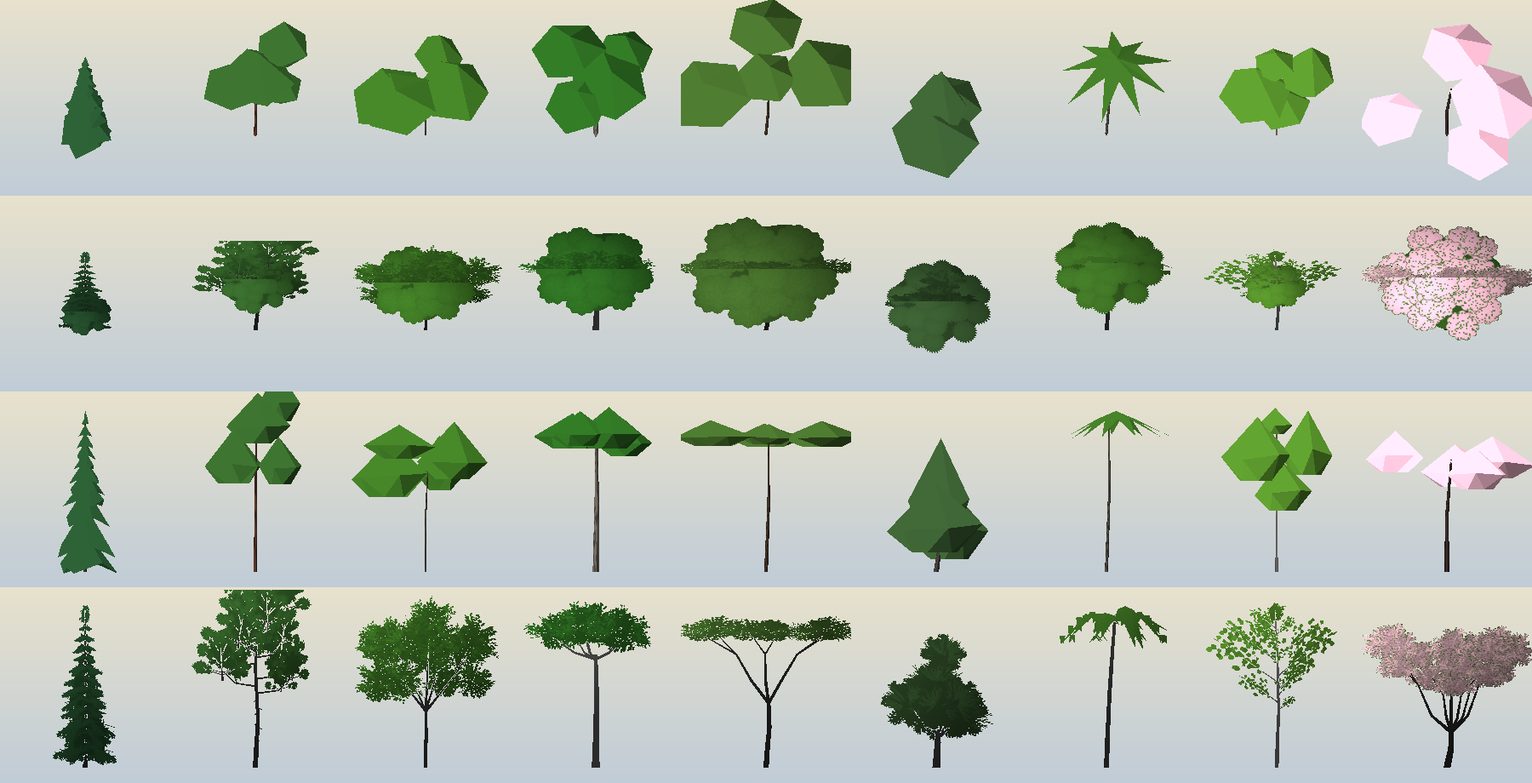
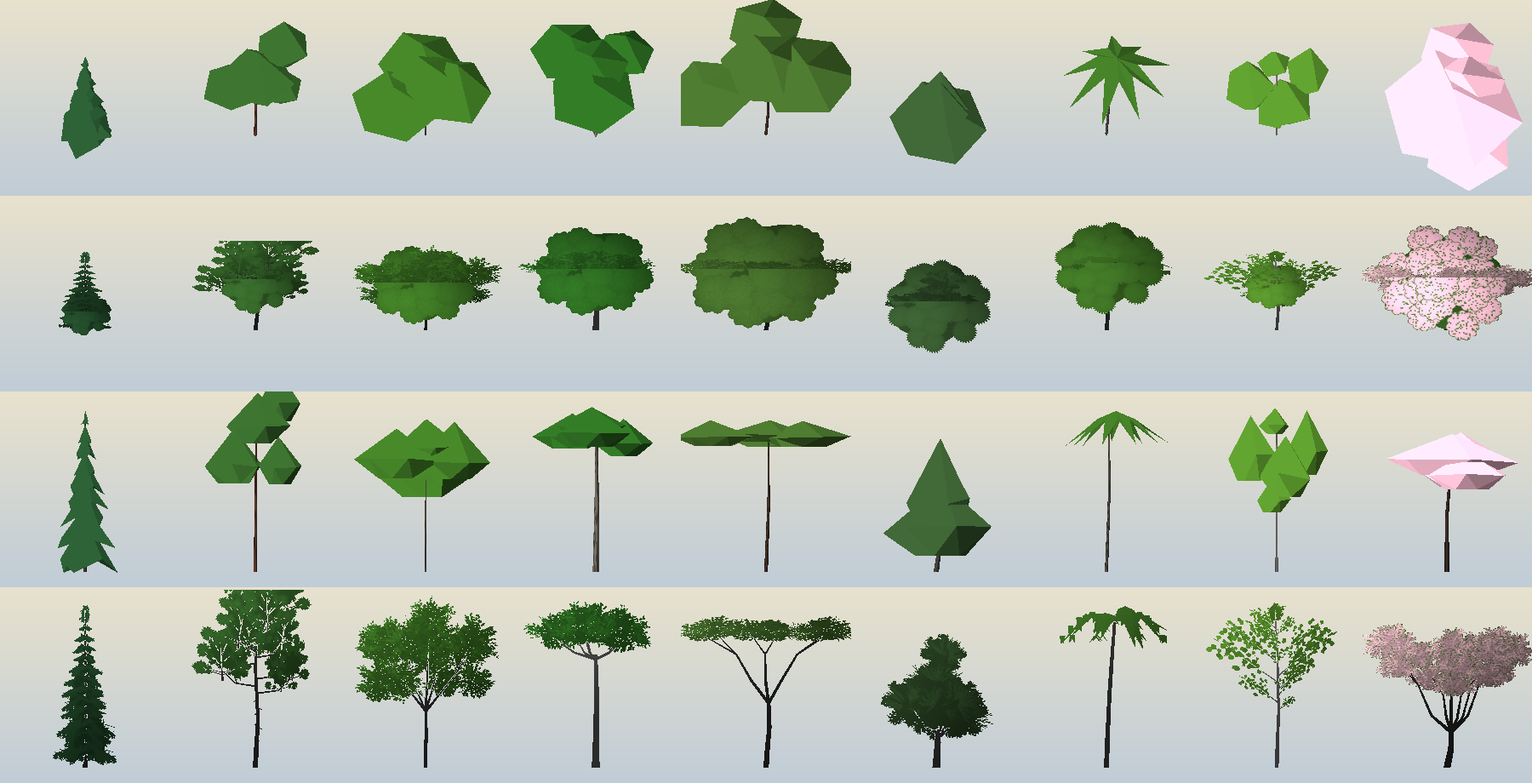
Trees looked down on are their solid make (60 to 240 m): grown in by the angle from the eye's place, the pictures drawing in
Claude-Session: https://claude.ai/code/session_01R5Bri3Vc6gREhGM2yuwUwB

diff --git a/src/life/trees.js b/src/life/trees.js
@@ -16,7 +16,7 @@ import { localFrame } from '../core/ephemeris.js';
 import { makeTreeGeometries, VARIANTS, sharedCorners } from './treeGeometry.js';
 import { ATLAS_W, ATLAS_H } from './treeAtlasLayout.js';
 import { SNOW_GLSL, SNOW_UNIFORMS } from '../render/snowGlsl.js';
-import { EDGE0, EDGE1, TOP0, TOP1 } from './farTreeForm.js';
+import { EDGE0, EDGE1, TOP0, TOP1, SOLID0, SOLID1 } from './farTreeForm.js';
 import { SPECIES, bloomOf, treeLook, canopyYear, canopyFar } from './cover.js';
 import { treeSeason } from './season.js';
 
@@ -139,8 +139,9 @@ uniform vec4 uTreeWind;      // xyz: where the wind blows to (unit), w: its spee
 uniform float uGustPhase;    // the gust's phase at the anchor (Trees.update): a tree's gust is its place's, whatever the anchor
 uniform vec3 uSeason;        // z: time (s). (x, y: the season of the place, for the leaves in the air; a tree's own season is in iB.w and its leaf colour)
 uniform float uTreeRadius;
-in float iF;                  // 1: a tree of the far list (its cards), drawn only outside uLodCut's radius (life/treeLod.js)
+in float iF;                  // 1: a tree of the far list (its cards), drawn only outside uLodCut's radius (life/treeLod.js); 2: the same tree's solid make (life/treeGeometry.js, solidOf)
 uniform vec4 uLodCut;         // xyz: the eye at the last choice of makes, from the anchor (m); w: the near radius then
+uniform float uSolid;         // 1: trees of the far list looked down on are their solid make; 0: their pictures, as before (?debug=treesolidoff, and the benchmark's row)
 bool treeCull;                // set by treePosition: this tree is the far forest's to draw
 vec3 treePosition(out vec3 foot, out float leaf) {
   foot = uAnchorRel + iA.xyz;
@@ -155,16 +156,30 @@ vec3 treePosition(out vec3 foot, out float leaf) {
   // the same tree at 150 m and at 400 m), and the rosette in the crown is the tree from there.
   // (Not in the shadow pass: a shadow is the tree seen from the Sun, never from the eye. Drawn
   // in by the eye's angle there, every tree in a ring under anyone looking down cast a disc.)
+  // And a tree of the far list looked down on is its solid make: a thing with a top and sides,
+  // where its pictures are cards on edge and a plate. The solid grows out of each mass's own
+  // middle (aCrown, on a solid) between SOLID0 and SOLID1 of the angle from the eye's PLACE to
+  // the tree (never the view's: nothing changes when the head turns), and the pictures and the
+  // rosette draw in as it grows. Not a bare tree (its pictures are its boughs; a solid has
+  // none), and not over the last 60 m to the far forest's line, which draws pictures.
 #ifdef TREE_DEPTH
   float edge = 1.0;
 #else
-  float edge = aLeaf > 3.5 ? 1.0 - smoothstep(${EDGE0.toFixed(3)}, ${EDGE1.toFixed(3)}, dot(-normalize(foot + uTreeUp * (iA.w * 0.7)), uTreeUp)) : 1.0;
+  bool solidMake = iF > 1.5;
+  float downT = dot(-normalize(foot + uTreeUp * (iA.w * 0.7)), uTreeUp);
+  float solidG = iF > 0.5 ? smoothstep(${SOLID0.toFixed(3)}, ${SOLID1.toFixed(3)}, downT) * (1.0 - smoothstep(180.0, 240.0, length(foot))) * (1.0 - smoothstep(0.35, 0.5, iB.w)) * uSolid : 0.0;
+  float edge = aLeaf > 3.5 ? (1.0 - smoothstep(${EDGE0.toFixed(3)}, ${EDGE1.toFixed(3)}, downT)) * (1.0 - solidG) : 1.0;
+  if (solidMake && aLeaf > 0.5) p = mix(aCrown, p, solidG);
 #endif
   // The crown's top, from low down, draws in inside the side pictures (lying flat at crown
   // height and wider than the crown seen from the side, it was a pink or green pad laid on
   // every tree from 20 degrees down); from above it is the crown, whole (the far trees' rule,
   // TOP0 to TOP1). It is its old size again from 180 m to the 240 m line, as the far forest's.
+#ifdef TREE_DEPTH
   if (aCrown.z > 2.5) p.xz *= mix(mix(0.55, 1.0, smoothstep(${TOP0.toFixed(3)}, ${TOP1.toFixed(3)}, dot(-normalize(foot + uTreeUp * (iA.w * 0.7)), uTreeUp))), 1.0, smoothstep(180.0, 240.0, length(foot)));
+#else
+  if (aCrown.z > 2.5 && !solidMake) p.xz *= (1.0 - solidG) * mix(mix(0.55, 1.0, smoothstep(${TOP0.toFixed(3)}, ${TOP1.toFixed(3)}, dot(-normalize(foot + uTreeUp * (iA.w * 0.7)), uTreeUp))), 1.0, smoothstep(180.0, 240.0, length(foot)));
+#endif
   p.xz *= iB.x * (1.0 - 0.85 * gone) * edge;
   vec3 l = vec3(p.x * c - p.z * s, p.y, p.x * s + p.z * c) * iA.w;
   // wind: the whole tree leans a little and its crown swings, gust by gust, each tree in
@@ -181,6 +196,10 @@ vec3 treePosition(out vec3 foot, out float leaf) {
   // A far card is cut where its tree stands inside the near radius of the eye at the last
   // choice of makes: the close and near lists have it there (life/treeLod.js).
   treeCull = length(foot) > uTreeRadius || edge <= 0.0 || (iF > 0.5 && length(iA.xyz - uLodCut.xyz) < uLodCut.w);
+#ifdef TREE_DEPTH
+#else
+  treeCull = treeCull || (solidMake ? solidG <= 0.0 : (aCrown.z > 2.5 && solidG >= 1.0));
+#endif
   float fade = 1.0;
   leaf = aLeaf;
   // (single leaves flutter, each in its own time, harder the harder it blows)
@@ -244,6 +263,7 @@ export class Trees {
       // 1: the Sun's light and the air worked out at every pixel, as before they were taken
       // from the vertices (?debug=treeairpixel, and the benchmark's row)
       uTreeOld: { value: 0 },
+      uSolid: { value: 1 },
     };
     // The trees' picture (made by scripts/make-tree-atlas.mjs). Until it has come, no tree is drawn.
     this.atlasReady = false;
@@ -288,7 +308,7 @@ ${TREE_VERT}
           vTreeM = vec3(position.x * iB.x, position.y, position.z * iB.x) * iA.w + iB.z * 37.0;        // metres in the tree's own frame (for the pattern of its leaves)
           vRel = rel; vN = treeNormal(); vLeaf = leaf; vY = position.y; vLeafC = iC; vTrunkC = iD.rgb; vOwn = vec2(iB.z, iB.w); vUv = aUv; vBloom = iE; vTall = vec2(iA.w, aLeaf < 3.5 ? iB.w : iB.w * (1.0 - max(iE.w, 0.0)) * (aCrown.z > 2.5 ? ${ROSETTE_THIN.toFixed(1)} : 1.0));          // (a whole tree's picture in flower keeps its crown: the far forest's rule, TREE_THIN)
           vCloud = cloudShade(foot + uTreeUp * (iA.w * 0.7)) * iD.w;
-          { float c = cos(iB.y), s = sin(iB.y); vec3 ax = aCrown.z > 1.5 && aCrown.z < 2.5 ? vec3(0.0, 0.0, 1.0) : vec3(1.0, 0.0, 0.0); vCardX = uTreeEast * (ax.x * c - ax.z * s) + uTreeNorth * (ax.x * s + ax.z * c); vCrown = aCrown; }          // (the clouds' shadow, from the map of it: life/treeShade.js)
+          { float c = cos(iB.y), s = sin(iB.y); vec3 ax = aCrown.z > 1.5 && aCrown.z < 2.5 ? vec3(0.0, 0.0, 1.0) : vec3(1.0, 0.0, 0.0); vCardX = uTreeEast * (ax.x * c - ax.z * s) + uTreeNorth * (ax.x * s + ax.z * c); vCrown = iF > 1.5 ? vec3(0.0) : aCrown; }          // (the clouds' shadow, from the map of it: life/treeShade.js)
           gl_Position = projectionMatrix * viewMatrix * vec4(rel, 1.0);
           // The Sun's light where the vertex is and the air between it and the eye, worked out
           // here and not at every pixel: over a face of a tree they change by next to nothing,
@@ -387,8 +407,11 @@ ${TREE_VERT}
           }
           // (single leaves: each lighter or darker than its neighbours)
           leafC *= 1.0 - 0.36 * under;
-          if (vLeaf > 1.5) leafC *= 0.94 + 0.44 * smoothstep(0.35, 0.65, leafCells(vTreeM * 4.7 + 1.9));
-          else if (vLeaf > 1.1) leafC *= 0.46;          // (the heart of a mass of foliage: the dark inside, see Shape.heart in treeGeometry.js)
+          bool solid = !card && vLeaf > 1.4 && vLeaf < 1.75;          // (a face of the solid make)
+          if (vLeaf > 1.75) leafC *= 0.94 + 0.44 * smoothstep(0.35, 0.65, leafCells(vTreeM * 4.7 + 1.9));
+          else if (vLeaf > 1.1 && !solid) leafC *= 0.46;
+          // (a solid crown in flower: its petals' colour, deep under and pale where it looks up)
+          if (solid && vBloom.w > 0.0) leafC = mix(leafC, mix(vBloom.rgb * vec3(0.62, 0.42, 0.52), mix(vBloom.rgb, vec3(0.8, 0.76, 0.76), 0.45), smoothstep(-0.3, 0.7, dot(N, up))), smoothstep(0.0, 0.6, vBloom.w));          // (the heart of a mass of foliage: the dark inside, see Shape.heart in treeGeometry.js)
           // (a card's foliage: cleaner green, lighter where the crown looks up; and each needle
           // and leaf its own tone, from the picture)
           if (card) {
@@ -404,7 +427,7 @@ ${TREE_VERT}
             leafC = mix(leafC, mix(vBloom.rgb * vec3(0.62, 0.42, 0.52), mix(vBloom.rgb, vec3(0.8, 0.76, 0.76), 0.45), pale), petal);
           }
           // (the heart of a bunch: the dark inside of the crown, see Shape.heart in treeGeometry.js)
-          bool heart = (vLeaf > 3.1 && vLeaf < 3.5) || (vLeaf > 1.1 && vLeaf < 1.5);
+          bool heart = (vLeaf > 3.1 && vLeaf < 3.5) || (vLeaf > 1.1 && vLeaf < 1.4);
           if (vLeaf > 3.1 && vLeaf < 3.5) leafC *= 0.5;
           // (a twig, drawn in a spray or a thin tube of its own: grey-brown whatever the trunk's
           // colour, and darker than the limb it grows from; a pine's red is its trunk's plates)
@@ -511,6 +534,25 @@ ${TREE_VERT}
       mesh.frustumCulled = false; mesh.visible = false; mesh.userData.lod = lod;
       return { geo, mesh, cap, iA, iB, iC, iD, iE, iF, count: 0, tris: base.attributes.position.count / 3, lod };
     })));
+    // The solid make of each shape and variant: the far list's own trees (its instance
+    // buffers, its count), drawn a second time as a solid where they are looked down on
+    // (TREE_VERT, solidG). It casts no shadow: a shadow is the tree seen from the Sun, and the
+    // far list's pictures cast it as before.
+    this.solids = [];
+    this.geos.forEach((variants, a) => variants.forEach((makes, v) => {
+      const far = this.sets[a][v][2], base = makes.solid, geo = new THREE.InstancedBufferGeometry();
+      const shared = sharedCorners(base, ['position', 'normal', 'aLeaf', 'aSway', 'aUv', 'aCrown']);
+      for (const name of ['position', 'normal', 'aLeaf', 'aSway', 'aUv', 'aCrown']) geo.setAttribute(name, shared.attributes[name]);
+      geo.setIndex(shared.index);
+      for (const name of ['iA', 'iB', 'iC', 'iD', 'iE']) geo.setAttribute(name, far[name]);
+      geo.setAttribute('iF', new THREE.InstancedBufferAttribute(new Float32Array(far.cap).fill(2), 1));
+      geo.instanceCount = 0;
+      const mesh = new THREE.Mesh(geo, this.material);
+      mesh.frustumCulled = false; mesh.visible = false; mesh.userData.lod = 1.5;
+      const solid = { geo, mesh, far, tris: base.attributes.position.count / 3 };
+      this.sets[a][v].solid = solid; this.solids.push(solid);
+    }));
+    this.solidOn = true; this.lookedDown = false; this.solidTrees = 0;
     // What casts a tree's shadow (life/treeLod.js, castMake: the near mesh while the tree is
     // drawn with skeleton and sprays, its far mesh, two crossed pictures of the tree and a
     // rosette in its crown, once it is drawn so; every tree its far mesh while the close mesh
@@ -541,7 +583,7 @@ ${TREE_VERT}
         });
       }
     });
-    this.meshes = this.sets.flat(2).map((s) => s.mesh);
+    this.meshes = this.sets.flat(2).map((s) => s.mesh).concat(this.solids.map((s) => s.mesh));
     this.blocks = new Map();                 // 'bi:bj' -> { state: 0 asked, 1 ready, origin, trees, count, used }
     this.asked = 0; this.frame = 0; this.serial = -1;
     this.anchor = new THREE.Vector3(); this.builtAt = new THREE.Vector3(1e12, 0, 0); this.fineAt = new THREE.Vector3(1e12, 0, 0); this.nearest = 0; this.dirty = false;
@@ -557,6 +599,7 @@ ${TREE_VERT}
     this.blocks.clear(); this.asked = 0; this.gen = (this.gen || 0) + 1; this.sunStale = 0; this.sunDirty = false; this.dirty = true; this.serial = -1; this._gustSet = false;
     this.shared.uSeason.value.set(0, 0, 0);
     for (const s of this.sets.flat(2)) { s.count = 0; s.geo.instanceCount = 0; for (const g of s.castGeos) g.instanceCount = 0; s.mesh.visible = false; }
+    for (const s of this.solids) { s.geo.instanceCount = 0; s.mesh.visible = false; }
     this.count = 0; this.triangles = 0; this.names = ''; this.falling = 0; this.reach = 0; this.blooming = []; this.shedding = []; this.day = 0;
   }
 
@@ -584,6 +627,10 @@ ${TREE_VERT}
     if (!show) this.reach = 0;
     // (hidden: the cost test takes the near trees out without moving the line the far forest begins at)
     for (const s of this.sets.flat(2)) s.mesh.visible = show && !this.hidden && s.count > 0 && this.atlasReady;
+    // (the solids: only while some tree of the far list is looked down on steeply enough for
+    // one to begin; an eye on level ground hands none of them over)
+    this._lookDown(rig);
+    for (const s of this.solids) s.mesh.visible = s.far.mesh.visible && this.lookedDown && this.solidOn;
     const p = rig.pos, len = p.length(), lat = Math.asin(p.z / len) * 180 / Math.PI, lon = ((Math.atan2(p.y, p.x) * 180 / Math.PI) + 360) % 360;
     {
       // The year in the leaves (worked out whether or not trees are drawn: the far forest
@@ -765,7 +812,7 @@ ${TREE_VERT}
     }
     this.shedding = shedding;                 // the nearest trees dropping their leaves, or with leaves lying under them (life/leaves.js, TreeLeaves)
     this.blooming = blooming;                 // the nearest trees in flower (from the anchor, m): the petals come off these (life/leaves.js)
-    for (const trio of this.sets.flat()) this._send(trio[2]);
+    for (const trio of this.sets.flat()) { this._send(trio[2]); trio.solid.geo.instanceCount = trio[2].count; }
     this.falling = falling; this.near = near;          // (near: trees within 60 m, for the leaves that come off them)
     this.names = [...names.entries()].sort((a, b) => b[1] - a[1]).slice(0, 3).map((e) => e[0]).join(', ');
     this._fine(p);
@@ -803,6 +850,26 @@ ${TREE_VERT}
       count += s.count; tris += s.count * s.tris;
     }
     this.count = count - cut; this.triangles = tris - cutTris;          // (trees drawn: the far cards cut inside the near radius are not)
+  }
+
+  // Whether any tree of the far list is looked down on from where the eye is, by the vertex
+  // shader's own measure (the sine of the angle to seven tenths of the tree's height against
+  // SOLID0, less a margin): the solids are handed over only then. A sum over the far lists
+  // (a few thousand trees at most), every frame: the eye rises and sinks without the lists
+  // being made again.
+  _lookDown(rig) {
+    const A = this.anchor, ex = rig.pos.x - A.x, ey = rig.pos.y - A.y, ez = rig.pos.z - A.z, u = this.shared.uTreeUp.value, limit = SOLID0 - 0.03;
+    let any = false, n = 0;
+    for (const s of this.solids) {
+      const I = s.far.iA.array, c = s.far.count;
+      for (let i = 0; i < c && !any; i++) {
+        const h = I[i * 4 + 3] * 0.7, x = ex - (I[i * 4] + u.x * h), y = ey - (I[i * 4 + 1] + u.y * h), z = ez - (I[i * 4 + 2] + u.z * h);
+        const up = x * u.x + y * u.y + z * u.z;
+        if (up > 0 && up * up > limit * limit * (x * x + y * y + z * z)) any = true;
+      }
+      n += c;
+    }
+    this.lookedDown = any; this.solidTrees = any ? n : 0;
   }
 
   // One tree into a list: where it stands from the anchor, its size, kind and colours.

diff --git a/src/life/treeGeometry.js b/src/life/treeGeometry.js
@@ -226,7 +226,9 @@ class Shape {
 //   and the stem, a three-sided tube along the tree's own trunk line.
 // Opaque plain faces (aLeaf 1.5: a solid crown's face, the species' leaf colour, nothing cut
 // out), 40 to 90 triangles.
-const SOLID_LUMPS = [0, 4, 4, 4, 4, 3, 0, 4, 4], SOLID_WIDE = [1, 0.8, 0.82, 0.85, 0.9, 0.9, 1, 0.62, 0.85];
+// (how many lumps round the crown, how wide each against its bunches' reach, and whether the
+// crown has a lump at its middle as well: a broad crown is one mass, a pine's or an aspen's is not)
+const SOLID_LUMPS = [0, 4, 3, 3, 3, 2, 0, 5, 3], SOLID_WIDE = [1, 0.8, 0.88, 0.88, 0.9, 0.9, 1, 0.5, 0.88], SOLID_CORE = [0, 0, 1, 1, 1, 1, 0, 0, 1];
 function solidOf(near, arch, R) {
   const s = new Shape(1); s.mid = near.mid;
   const fol = near.tris.filter((t) => t.leaf > 0.5), wood = near.tris.filter((t) => t.leaf < 0.1);
@@ -240,32 +242,42 @@ function solidOf(near, arch, R) {
   const stem = (top) => { const pts = [foot]; for (let k = 1; k <= 2; k++) pts.push(trunkAt(top * k / 2, pts[k - 1])); s.tube(pts, [r0, r0 * 0.75, r0 * 0.4], 3); return pts[2]; };
   // a mass's faces: plain, lit from the middle of the mass (build() leans a plain face's own
   // normal toward straight out from `c`)
-  const face = (a, b, c3, c) => s.tri(a, b, c3, 1.5, c[0], c[1], c[2]);
+  // (grow: the point the face grows out of as the eye rises, its mass's own middle; it goes to
+  // the vertices as aCrown, which a solid has no other use for. The stem's is each vertex itself.)
+  const grows = [];
+  const face = (a, b, c3, c, grow = c) => { s.tri(a, b, c3, 1.5, c[0], c[1], c[2]); grows.push(grow); };
+  const done = () => {
+    const g = s.build(), C = g.attributes.aCrown.array, Pg = g.attributes.position.array, L = g.attributes.aLeaf.array;
+    // (build() puts wood first, in the order made; the faces after, in theirs)
+    let f = 0;
+    for (let i = 0; i < L.length; i++) { if (L[i] < 0.5) { C[i * 3] = Pg[i * 3]; C[i * 3 + 1] = Pg[i * 3 + 1]; C[i * 3 + 2] = Pg[i * 3 + 2]; } else { const gr = grows[Math.floor(f / 3)]; f++; C[i * 3] = gr[0]; C[i * 3 + 1] = gr[1]; C[i * 3 + 2] = gr[2]; } }
+    return g;
+  };
   if (arch === 0) {
     // tiers: the middle mesh's own (their foliage shares a middle on the trunk), two and two
     const by = new Map();
     for (const t of fol) { const k = t.out[1].toFixed(4); if (!by.has(k)) by.set(k, []); by.get(k).push(...t.p); }
     const tiers = [...by.values()].map((P) => ({ hi: pct(P.map((p) => p[1]), 0.97), lo: pct(P.map((p) => p[1]), 0.12), r: pct(P.map((p) => Math.hypot(p[0], p[2])), 0.9), n: P.length })).filter((t) => t.n > 12).sort((a, b) => a.lo - b.lo);
-    const merged = []; for (let k = 0; k < tiers.length; k += 2) { const a = tiers[k], b = tiers[k + 1] || a; merged.push({ hi: Math.max(a.hi, b.hi), lo: Math.min(a.lo, b.lo), r: Math.max(a.r, b.r) }); }
+    const merged = [], per = Math.ceil(tiers.length / 9); for (let k = 0; k < tiers.length; k += per) { const g = tiers.slice(k, k + per); merged.push({ hi: Math.max(...g.map((t) => t.hi)), lo: Math.min(...g.map((t) => t.lo)), r: Math.max(...g.map((t) => t.r)) }); }
     const top = stem(merged.length ? merged[merged.length - 1].hi : 0.9);
     merged.forEach((t, k) => {
       const n = 6, turn = R() * TAU, ax = trunkAt((t.hi + t.lo) / 2, top), apex = [ax[0], t.hi + 0.02, ax[2]], c = [ax[0], t.lo - t.r * 0.5, ax[2]];
       const ring = []; for (let j = 0; j < n; j++) { const a = turn + j / n * TAU, out = j % 2 ? 1 : 0.72 + 0.12 * R(), rr = t.r * 0.92 * out; ring.push([ax[0] + Math.cos(a) * rr, t.lo + (t.hi - t.lo) * (j % 2 ? 0.05 : 0.3), ax[2] + Math.sin(a) * rr]); }
-      for (let j = 0; j < n; j++) face(apex, ring[(j + 1) % n], ring[j], c);
+      for (let j = 0; j < n; j++) face(apex, ring[(j + 1) % n], ring[j], c, apex);
     });
     // (the spire)
-    { const y = merged.length ? merged[merged.length - 1].hi : 0.9, a = [top[0], Math.min(1, y + 0.07), top[2]], c = [top[0], y - 0.05, top[2]], ring = [0, 1, 2].map((j) => [top[0] + Math.cos(j * 2.094) * 0.02, y - 0.01, top[2] + Math.sin(j * 2.094) * 0.02]); for (let j = 0; j < 3; j++) face(a, ring[(j + 1) % 3], ring[j], c); }
-    return s;
+    { const y = merged.length ? merged[merged.length - 1].hi : 0.9, a = [top[0], Math.min(1, y + 0.07), top[2]], c = [top[0], y - 0.05, top[2]], ring = [0, 1, 2].map((j) => [top[0] + Math.cos(j * 2.094) * 0.02, y - 0.01, top[2] + Math.sin(j * 2.094) * 0.02]); for (let j = 0; j < 3; j++) face(a, ring[(j + 1) % 3], ring[j], c, c); }
+    return done();
   }
   const P = fol.flatMap((t) => t.p);
   if (arch === 6) {
     const cx = P.reduce((a, p) => a + p[0], 0) / P.length, cz = P.reduce((a, p) => a + p[2], 0) / P.length, hi = pct(P.map((p) => p[1]), 0.97), lo = pct(P.map((p) => p[1]), 0.2), r = pct(P.map((p) => Math.hypot(p[0] - cx, p[2] - cz)), 0.93);
     stem(hi - 0.03);
     const n = 9, turn = R() * TAU, apex = [cx, hi + 0.01, cz], c = [cx, lo - r * 0.4, cz], ring = [], inner = [];
-    for (let j = 0; j < n; j++) { const a = turn + j / n * TAU, a2 = a + 0.5 / n * TAU, rr = r * (0.85 + 0.2 * R()); ring.push([cx + Math.cos(a) * rr, lo - (hi - lo) * 0.25 * R(), cz + Math.sin(a) * rr]); inner.push([cx + Math.cos(a2) * r * 0.36, hi - (hi - lo) * 0.3, cz + Math.sin(a2) * r * 0.36]); }
+    for (let j = 0; j < n; j++) { const a = turn + j / n * TAU, a2 = a + 0.5 / n * TAU, rr = r * (0.85 + 0.2 * R()); ring.push([cx + Math.cos(a) * rr, lo - (hi - lo) * (0.3 + 0.4 * R()), cz + Math.sin(a) * rr]); inner.push([cx + Math.cos(a2) * r * 0.36, hi - (hi - lo) * 0.3, cz + Math.sin(a2) * r * 0.36]); }
     // (each frond a blade from the crown's middle out and down, with a notch between it and the next)
-    for (let j = 0; j < n; j++) { face(apex, inner[j], ring[j], c); face(apex, ring[j], inner[(j + n - 1) % n], c); }
-    return s;
+    for (let j = 0; j < n; j++) { face(apex, inner[j], ring[j], c, apex); face(apex, ring[j], inner[(j + n - 1) % n], c, apex); }
+    return done();
   }
   // the bunches of the middle mesh (each has its own middle), as balls
   const by = new Map();
@@ -282,22 +294,25 @@ function solidOf(near, arch, R) {
     return { c, r: pct(Q.map((p) => Math.hypot(p[0] - c[0], p[2] - c[2])), 0.85) * SOLID_WIDE[arch], hi: pct(Q.map((p) => p[1]), 0.92), lo: arch === 5 ? pct(Q.map((p) => p[1]), 0.1) * 0.4 : pct(Q.map((p) => p[1]), 0.12) };
   });
   const crown = [0, 1, 2].map((i) => P.reduce((a, p) => a + p[i], 0) / P.length);
+  // (the middle of a broad crown: a lump of its own, a little higher than the ones round it)
+  if (SOLID_CORE[arch]) { const rAll = pct(P.map((p) => Math.hypot(p[0] - crown[0], p[2] - crown[2])), 0.8); lumps.push({ c: crown, r: rAll * 0.62, hi: pct(P.map((p) => p[1]), 0.97), lo: pct(P.map((p) => p[1]), arch === 5 ? 0.05 : 0.3) }); }
   stem(Math.max(...lumps.map((l) => l.c[1])) * (arch === 5 ? 0.5 : 0.96));
   for (const l of lumps) {
-    const n = 6, turn = R() * TAU, h = l.hi - l.lo, c = [l.c[0] * 0.7 + crown[0] * 0.3, l.lo - h * 0.2, l.c[2] * 0.7 + crown[2] * 0.3];
+    const n = arch === 7 ? 5 : 6, turn = R() * TAU, h = l.hi - l.lo, c = [l.c[0] * 0.7 + crown[0] * 0.3, l.lo - h * 0.2, l.c[2] * 0.7 + crown[2] * 0.3];
     const apex = [l.c[0] + (R() - 0.5) * l.r * 0.15, l.hi, l.c[2] + (R() - 0.5) * l.r * 0.15], wide = [], under = [];
     for (let j = 0; j < n; j++) {
       const a = turn + j / n * TAU, a2 = a + 0.5 / n * TAU, rr = l.r * (0.9 + 0.16 * R());
       wide.push([l.c[0] + Math.cos(a) * rr, l.lo + h * (0.28 + 0.14 * R()), l.c[2] + Math.sin(a) * rr]);
       under.push([l.c[0] + Math.cos(a2) * rr * 0.5, l.lo, l.c[2] + Math.sin(a2) * rr * 0.5]);
     }
+    const mid = [l.c[0], l.lo + h * 0.35, l.c[2]];
     for (let j = 0; j < n; j++) {
-      face(apex, wide[(j + 1) % n], wide[j], c);
-      face(wide[j], wide[(j + 1) % n], under[j], c);
-      face(under[j], wide[(j + 1) % n], under[(j + 1) % n], c);
+      face(apex, wide[(j + 1) % n], wide[j], c, mid);
+      face(wide[j], wide[(j + 1) % n], under[j], c, mid);
+      face(under[j], wide[(j + 1) % n], under[(j + 1) % n], c, mid);
     }
   }
-  return s;
+  return done();
 }
 
 // One list per shape, of VARIANTS trees of that shape, each [close mesh, near mesh, far
@@ -343,7 +358,7 @@ export function makeTreeGeometries() {
       });
       // (the fourth make, for whoever looks down on the tree: not one of the three by distance,
       // and kept beside them, not among them)
-      trio.solid = solidOf(nearShape, arch, rng(seed + 9001 + v * 7919)).build();
+      trio.solid = solidOf(nearShape, arch, rng(seed + 9001 + v * 7919));
       list.push(trio);
     }
     for (const trio of list) crownCoords(trio[2], trio[1]);

diff --git a/src/app.js b/src/app.js
@@ -305,12 +305,14 @@ export class App {
     // Trees (worlds that have them): drawn with the ground, and they cast shadows
     this.trees = new Trees(world, this.terrain); this.trees.renderer = renderer;
     for (const set of this.trees.sets.flat(2)) this.nearScene.add(set.mesh);
+    for (const s of this.trees.solids) this.nearScene.add(s.mesh);          // (the trees' solid makes, for whoever looks down on them)
     // (what casts their shadows, and when: life/trees.js, casters)
     for (const c of this.trees.casters) this.nearShadow.addCaster(c.mesh, this.trees.depthMaterial, c.on, c.fineCount);
     // (the far forest: the same trees as those near by, thinned with distance, out to some
     // kilometres; they rise out of the forest the ground shader raises as a whole)
     this.farForest = new FarForest(this.trees, this.terrain); this.nearScene.add(this.farForest.mesh);
     if (params.debug.includes('farwhole')) this.farForest.shared.uShadow.value.w = 1;      // ?debug=farwhole: no far tree thrown out by the vertex shader for standing outside the picture (the same picture)
+    if (params.debug.includes('treesolidoff') && this.trees) { this.trees.shared.uSolid.value = 0; this.trees.solidOn = false; }      // ?debug=treesolidoff: trees looked down on are their pictures and a plate, as before the solid make
     if (params.debug.includes('treeairpixel') && this.trees) this.trees.shared.uTreeOld.value = 1;      // ?debug=treeairpixel: the near trees' Sun light and air worked out at every pixel, as before they were taken from the vertices (the same picture, for a pair)
     if (params.debug.includes('groundskypixel')) this.terrain.shared.uGroundOld.value.x = 1;      // ?debug=groundskypixel: the sky's light on the ground asked at every pixel, as before it was taken from the vertices
     if (params.debug.includes('groundbothmaps')) this.terrain.shared.uGroundOld.value.y = 1;      // ?debug=groundbothmaps: a patch's own normal and shadow read wherever its parent's are, as before
@@ -335,6 +337,7 @@ export class App {
       const order = (o, n) => o.traverse((m) => { m.renderOrder = n; });
       order(this.grass.mesh, -30); order(this.leaves.mesh, -30); order(this.petals.mesh, -30); order(this.treeLeaves.mesh, -30); order(this.kicked.mesh, -30);
       for (const set of this.trees.sets.flat(2)) order(set.mesh, -20.3 + 0.1 * set.lod);          // (the nearest trees' meshes first: what they hide is not shaded)
+      for (const s of this.trees.solids) order(s.mesh, -20.15);          // (solids before the pictures of the same trees: nothing cut out, and what they hide is not shaded)
       order(this.rocks.mesh, -10);
     }
     // (a picture must not depend on which frame it is; and at Sharp's 30 frames a second

diff --git a/src/life/farTreeForm.js b/src/life/farTreeForm.js
@@ -24,6 +24,11 @@
 // The shadow's quad is handed over only from the air (two triangles a tree more, there);
 // none of the rest is seen from the ground (down < TOP0).
 
+// The solid make of a tree one flies among (60 to 240 m: life/treeGeometry.js, solidOf; drawn
+// by life/trees.js): it grows out of the crown's middle between these sines of the angle the
+// tree is looked down at (20 and 38 degrees), and the tree's pictures draw in as it grows.
+// From the side a tree is its pictures, from above a thing with a top and sides.
+export const SOLID0 = 0.34, SOLID1 = 0.62;
 export const TOP0 = 0.30, TOP1 = 0.72;        // the rosette spreads between these
 export const TOP_POW = 0.17;                  // ... by keep^-(1/4 + this) in a closed wood. (At 1/4 more the cover would be kept whole, and every
                                               // crown would look the same size on the screen at any distance: a forest with no depth.
